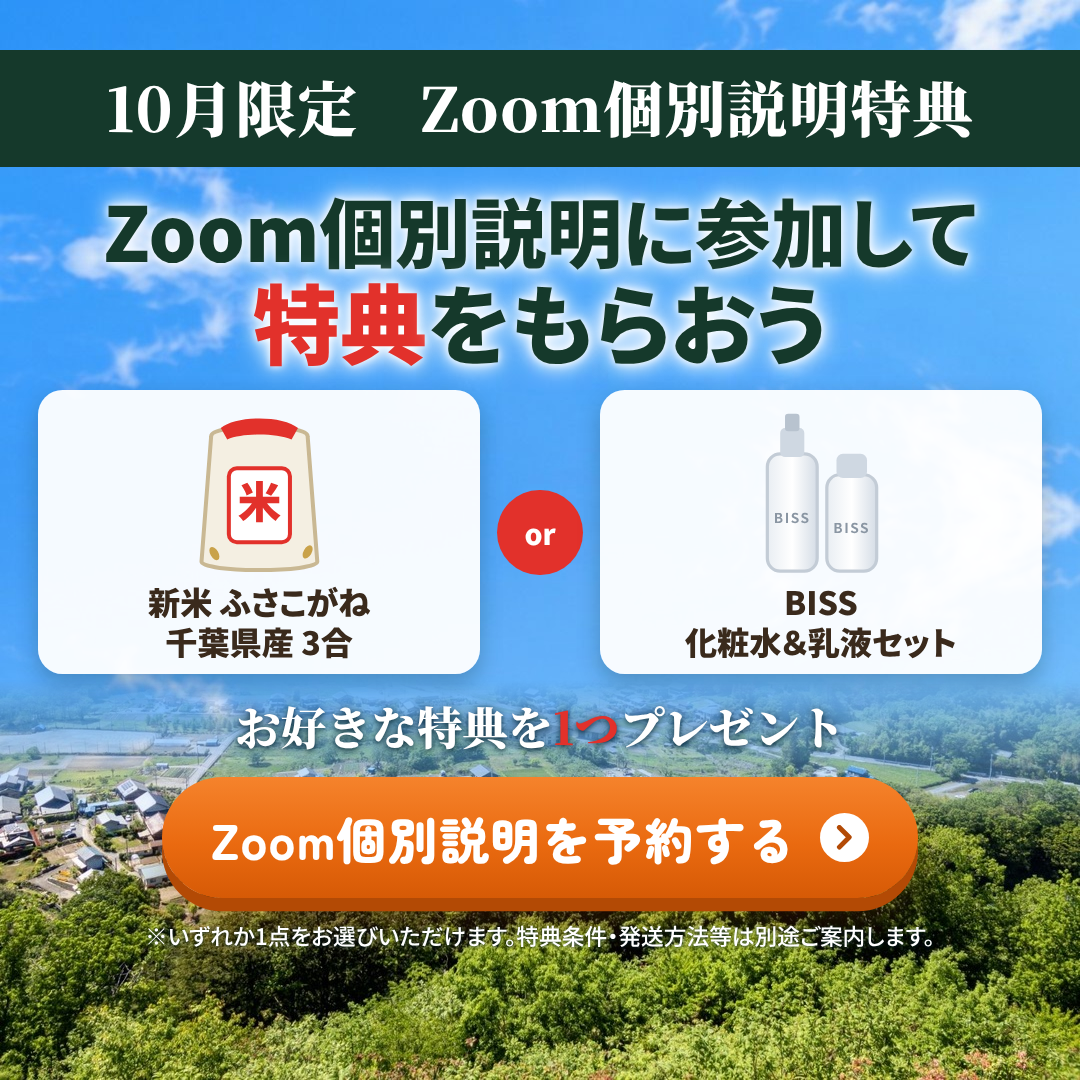
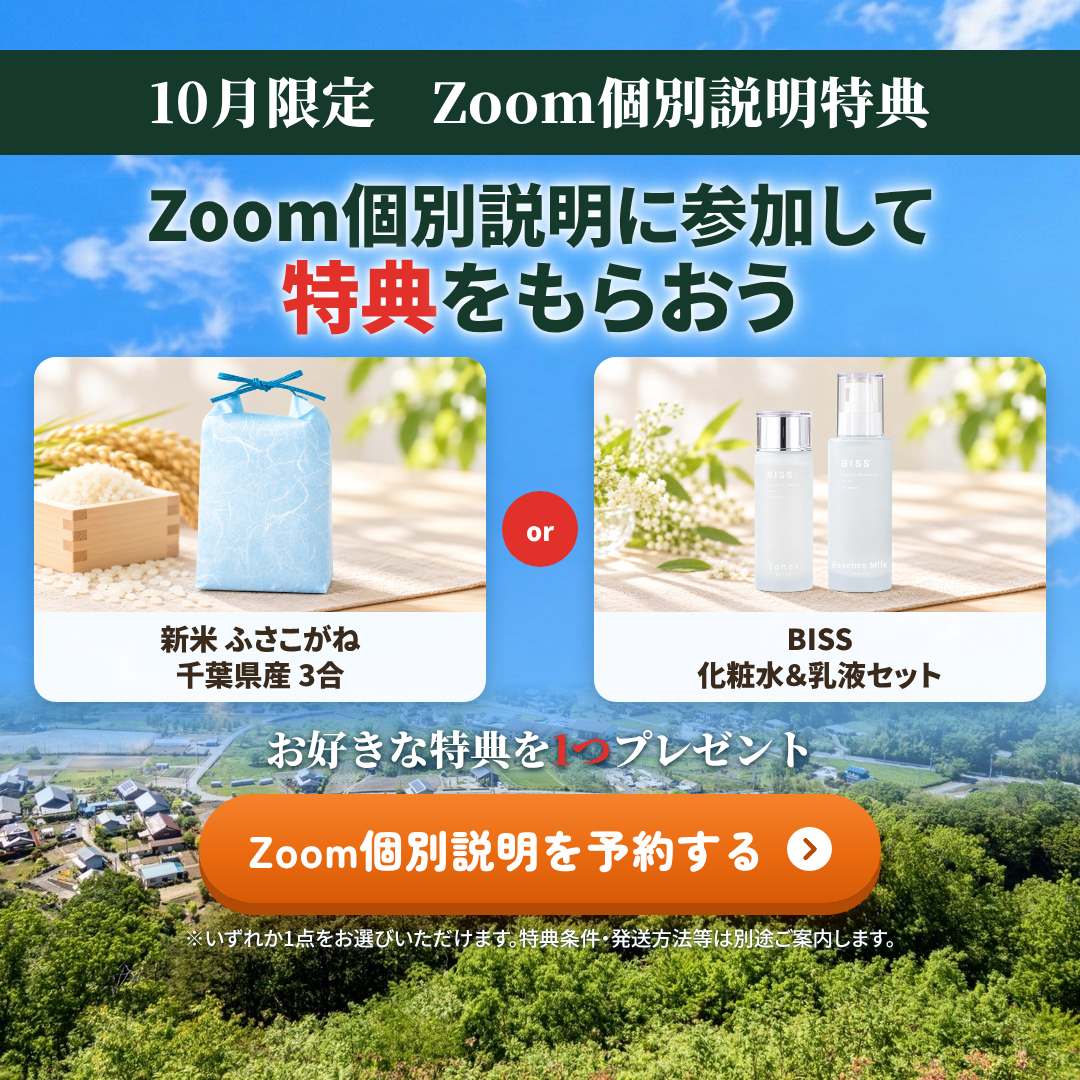
feat: 特典カードをお米・BISSの実物写真に差し替え
Claude-Session: https://claude.ai/code/session_01P3SyrgKkzVaKXZHt8wAsTA

diff --git a/ads/blueberry-reel/template/ad.css b/ads/blueberry-reel/template/ad.css
@@ -23,7 +23,7 @@
   .stile .v { font-family: 'Noto Sans JP', sans-serif; font-weight: 900; font-size: 96px; color: var(--red); line-height: 1.05; white-space: nowrap; }
   .stile .v span { font-size: 40px; color: var(--dg); margin-left: 2px; }
   .gifts { display: flex; gap: 18px; width: 100%; padding: 0 40px; align-items: center; }
-  .gcard { flex: 1; background: rgba(255,255,255,.95); border-radius: 26px; text-align: center; padding: 14px 6px; font-family: 'Noto Sans JP', sans-serif; font-weight: 900; font-size: 40px; color: #3a2a1c; box-shadow: 0 10px 24px rgba(10,40,30,.25); display: flex; flex-direction: column; align-items: center; }
+  .gcard { flex: 1; overflow: hidden; background: rgba(255,255,255,.95); border-radius: 26px; text-align: center; padding: 14px 6px; font-family: 'Noto Sans JP', sans-serif; font-weight: 900; font-size: 40px; color: #3a2a1c; box-shadow: 0 10px 24px rgba(10,40,30,.25); display: flex; flex-direction: column; align-items: center; }
   .gor { flex: 0 0 90px; width: 90px; height: 90px; border-radius: 50%; background: var(--red); color: #fff; font-family: 'Noto Sans JP', sans-serif; font-weight: 900; font-size: 30px; display: flex; align-items: center; justify-content: center; }
   .bonus { margin: 0 80px; width: calc(100% - 160px); }
   .bonus .gicons { display: flex; align-items: center; padding-right: 14px; }
@@ -32,3 +32,6 @@
   .foot { font-family: 'Noto Sans JP', sans-serif; font-weight: 500; font-size: 24px; color: #fff; text-shadow: 0 1px 4px rgba(0,30,40,.8); text-align: center; }
 
   .gcard .glabel { font-size: 34px; line-height: 1.25; white-space: nowrap; }
+
+  .gcard { padding: 0 0 12px !important; }
+  .gcard .gphoto { width: 100%; height: 300px; background-size: cover; margin-bottom: 8px; }

diff --git a/ads/blueberry-reel/template/ad.js b/ads/blueberry-reel/template/ad.js
@@ -46,7 +46,13 @@
     }
     if (c.gifts) {
       const row = el('div', 'gifts', p);
-      const mk = (id, label) => { const g = el('div', 'gcard', row); g.innerHTML = `<svg width="170" height="187" viewBox="0 0 200 220"><use href="#${id}"/></svg>`; T('div', 'glabel', g, label); };
+      const PHOTO = { 'gift-rice': ['gift-rice.jpg', '52% 50%'], 'gift-skincare': ['gift-biss.jpg', '58% 50%'] };
+      const mk = (id, label) => {
+        const g = el('div', 'gcard', row);
+        const [file, pos] = PHOTO[id];
+        el('div', 'gphoto', g, { backgroundImage: `url(../assets/${file})`, backgroundPosition: pos });
+        T('div', 'glabel', g, label);
+      };
       const gl = Array.isArray(c.gifts) ? c.gifts : ['お米', 'BISSスキンケア'];
       mk('gift-rice', gl[0]); T('div', 'gor', row, 'or'); mk('gift-skincare', gl[1]);
     }
@@ -142,6 +148,7 @@
       g.className = 'layer on';
       g.innerHTML = '<div class="g" style="top:0;height:269px"></div><div class="g" style="bottom:0;height:672px"></div>';
     }
+    if (cfg.gifts) await L.loadImages(['../assets/gift-rice.jpg', '../assets/gift-biss.jpg']);
     await L.loadFonts(document.body.innerText);
     await Promise.all(['900 60px "Noto Serif JP"', '900 60px "Noto Sans JP"'].map((s) => document.fonts.load(s, document.body.innerText)));
     await document.fonts.ready;

diff --git a/ads/blueberry-reel/template/adreel.js b/ads/blueberry-reel/template/adreel.js
@@ -26,6 +26,7 @@
       K.build(c, { ...s.parts, noCta: !s.parts.cta }, 'story');
       return { s, c, last: i === cfg.scenes.length - 1 };
     });
+    if (cfg.scenes.some((x) => x.parts.gifts)) await L.loadImages(['../assets/gift-rice.jpg', '../assets/gift-biss.jpg']);
     await L.loadFonts(document.body.innerText);
     await Promise.all(['900 60px "Noto Serif JP"', '900 60px "Noto Sans JP"'].map((f) => document.fonts.load(f, document.body.innerText)));
     await document.fonts.ready;
